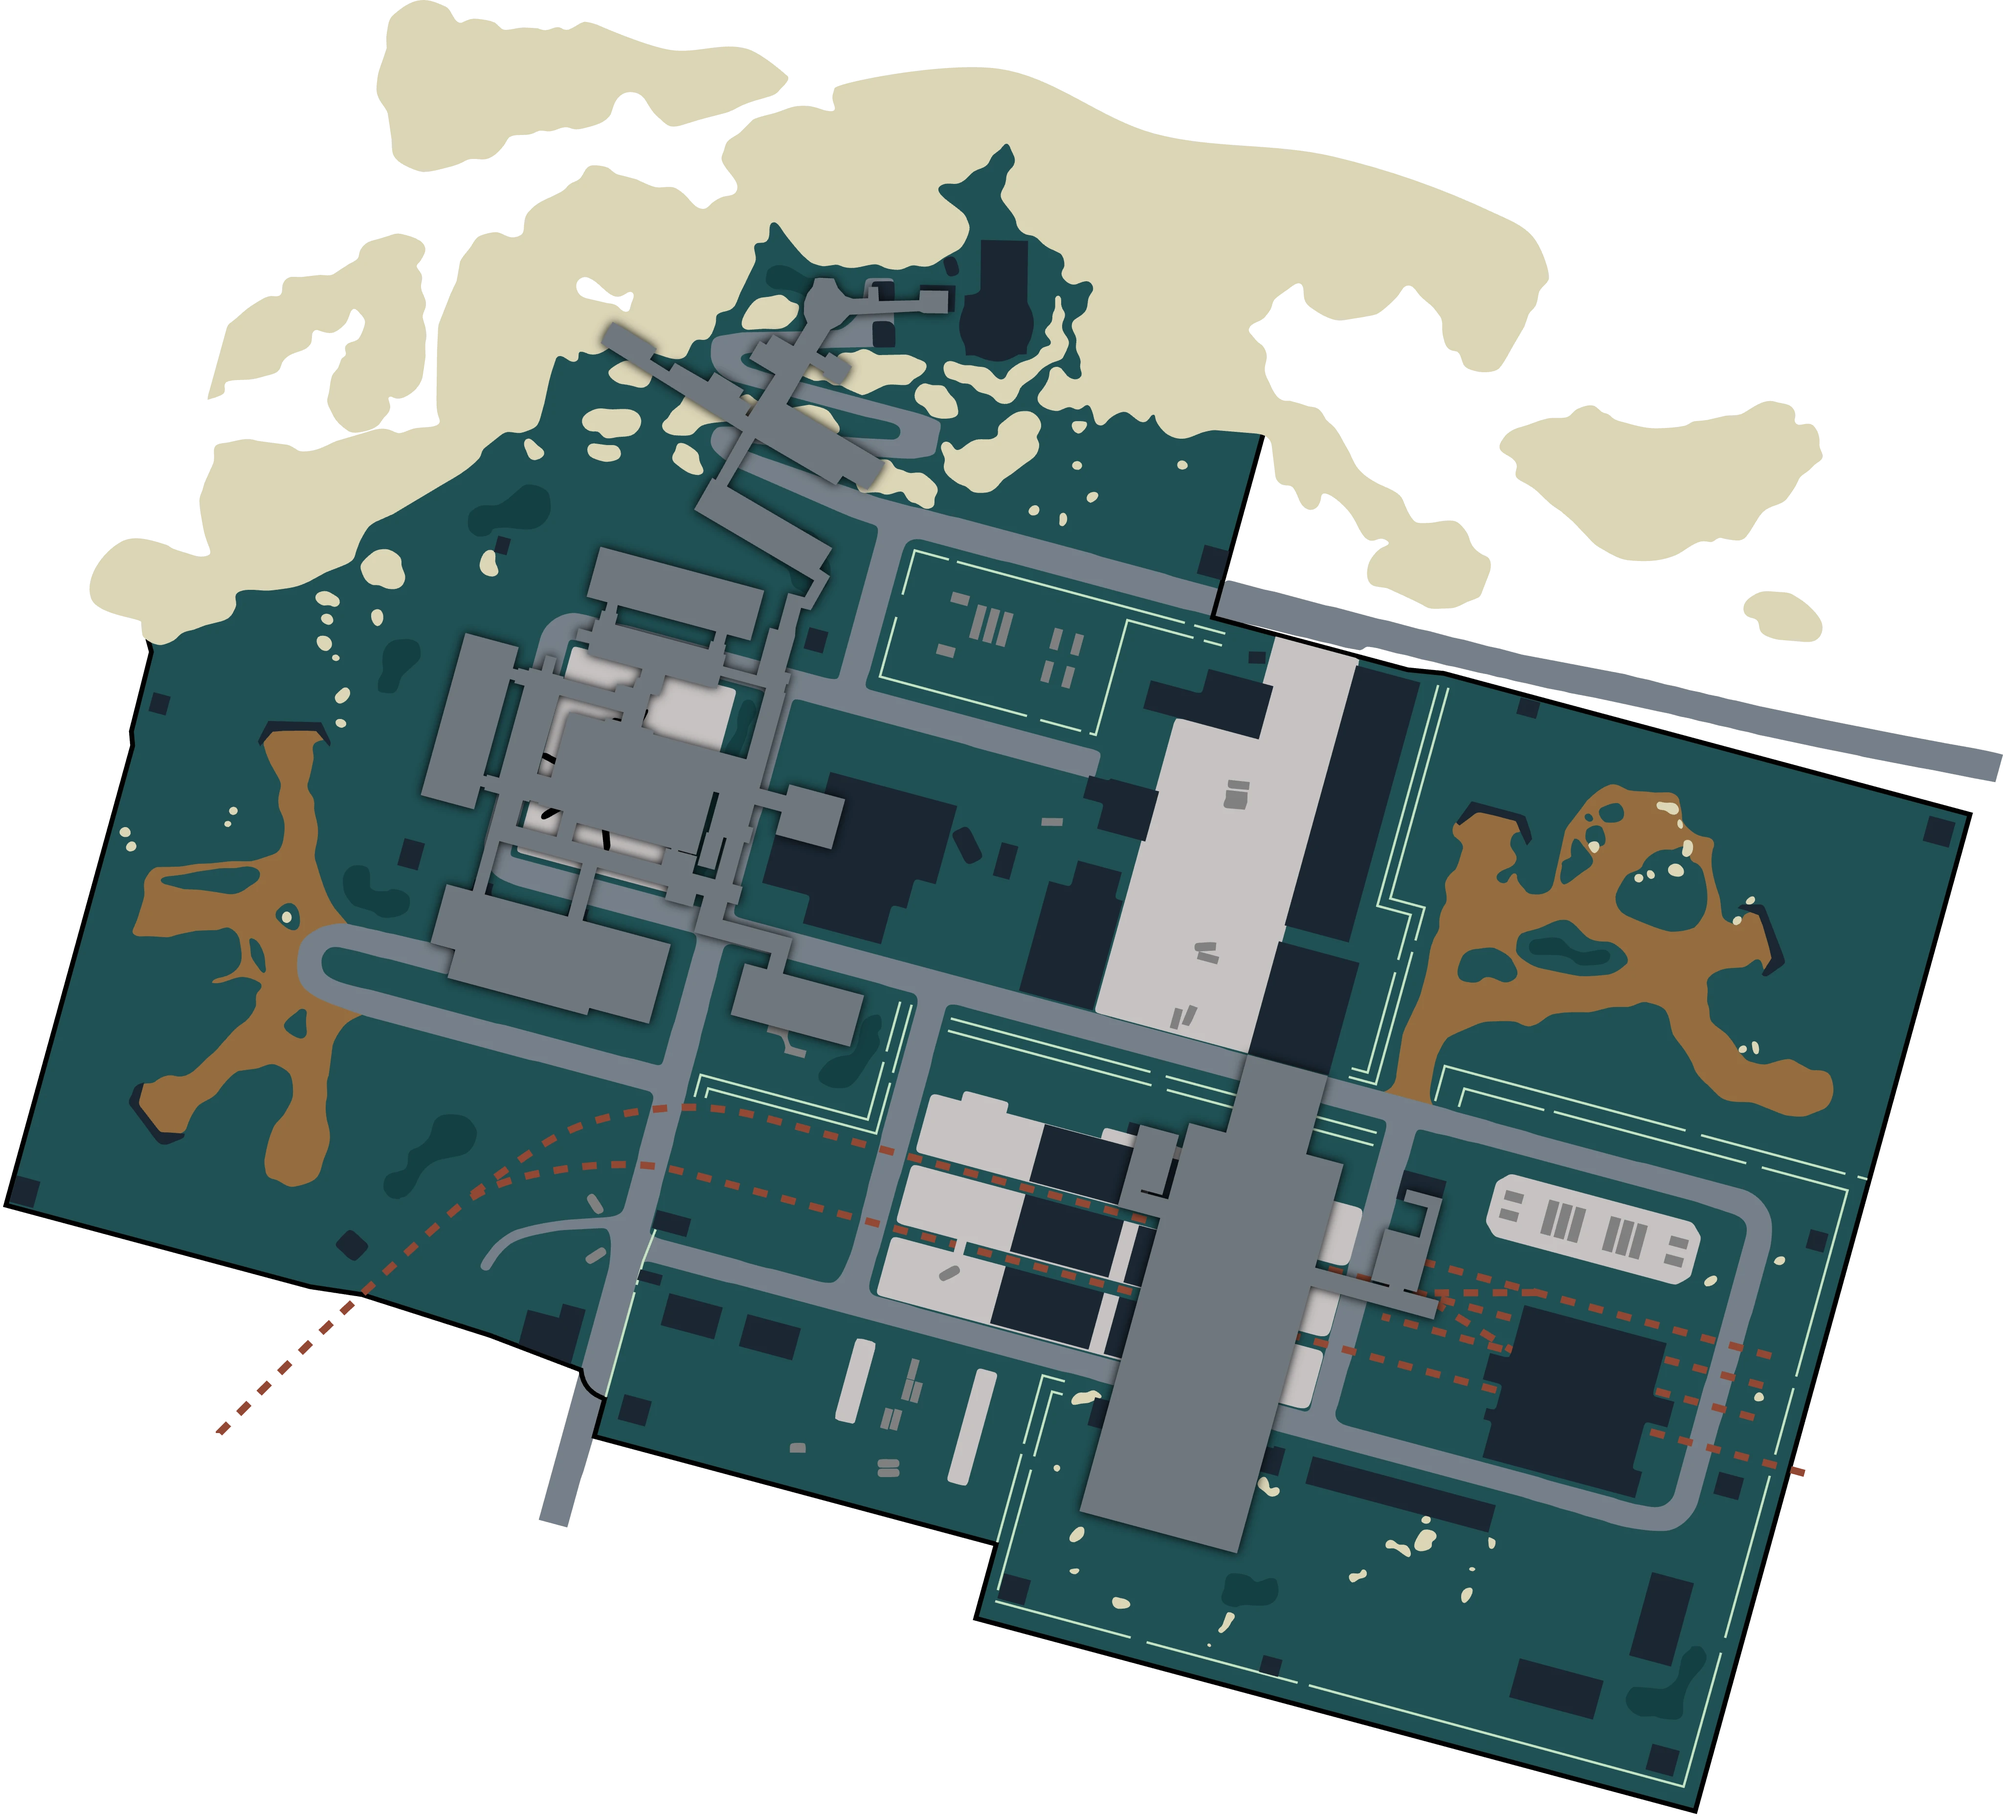
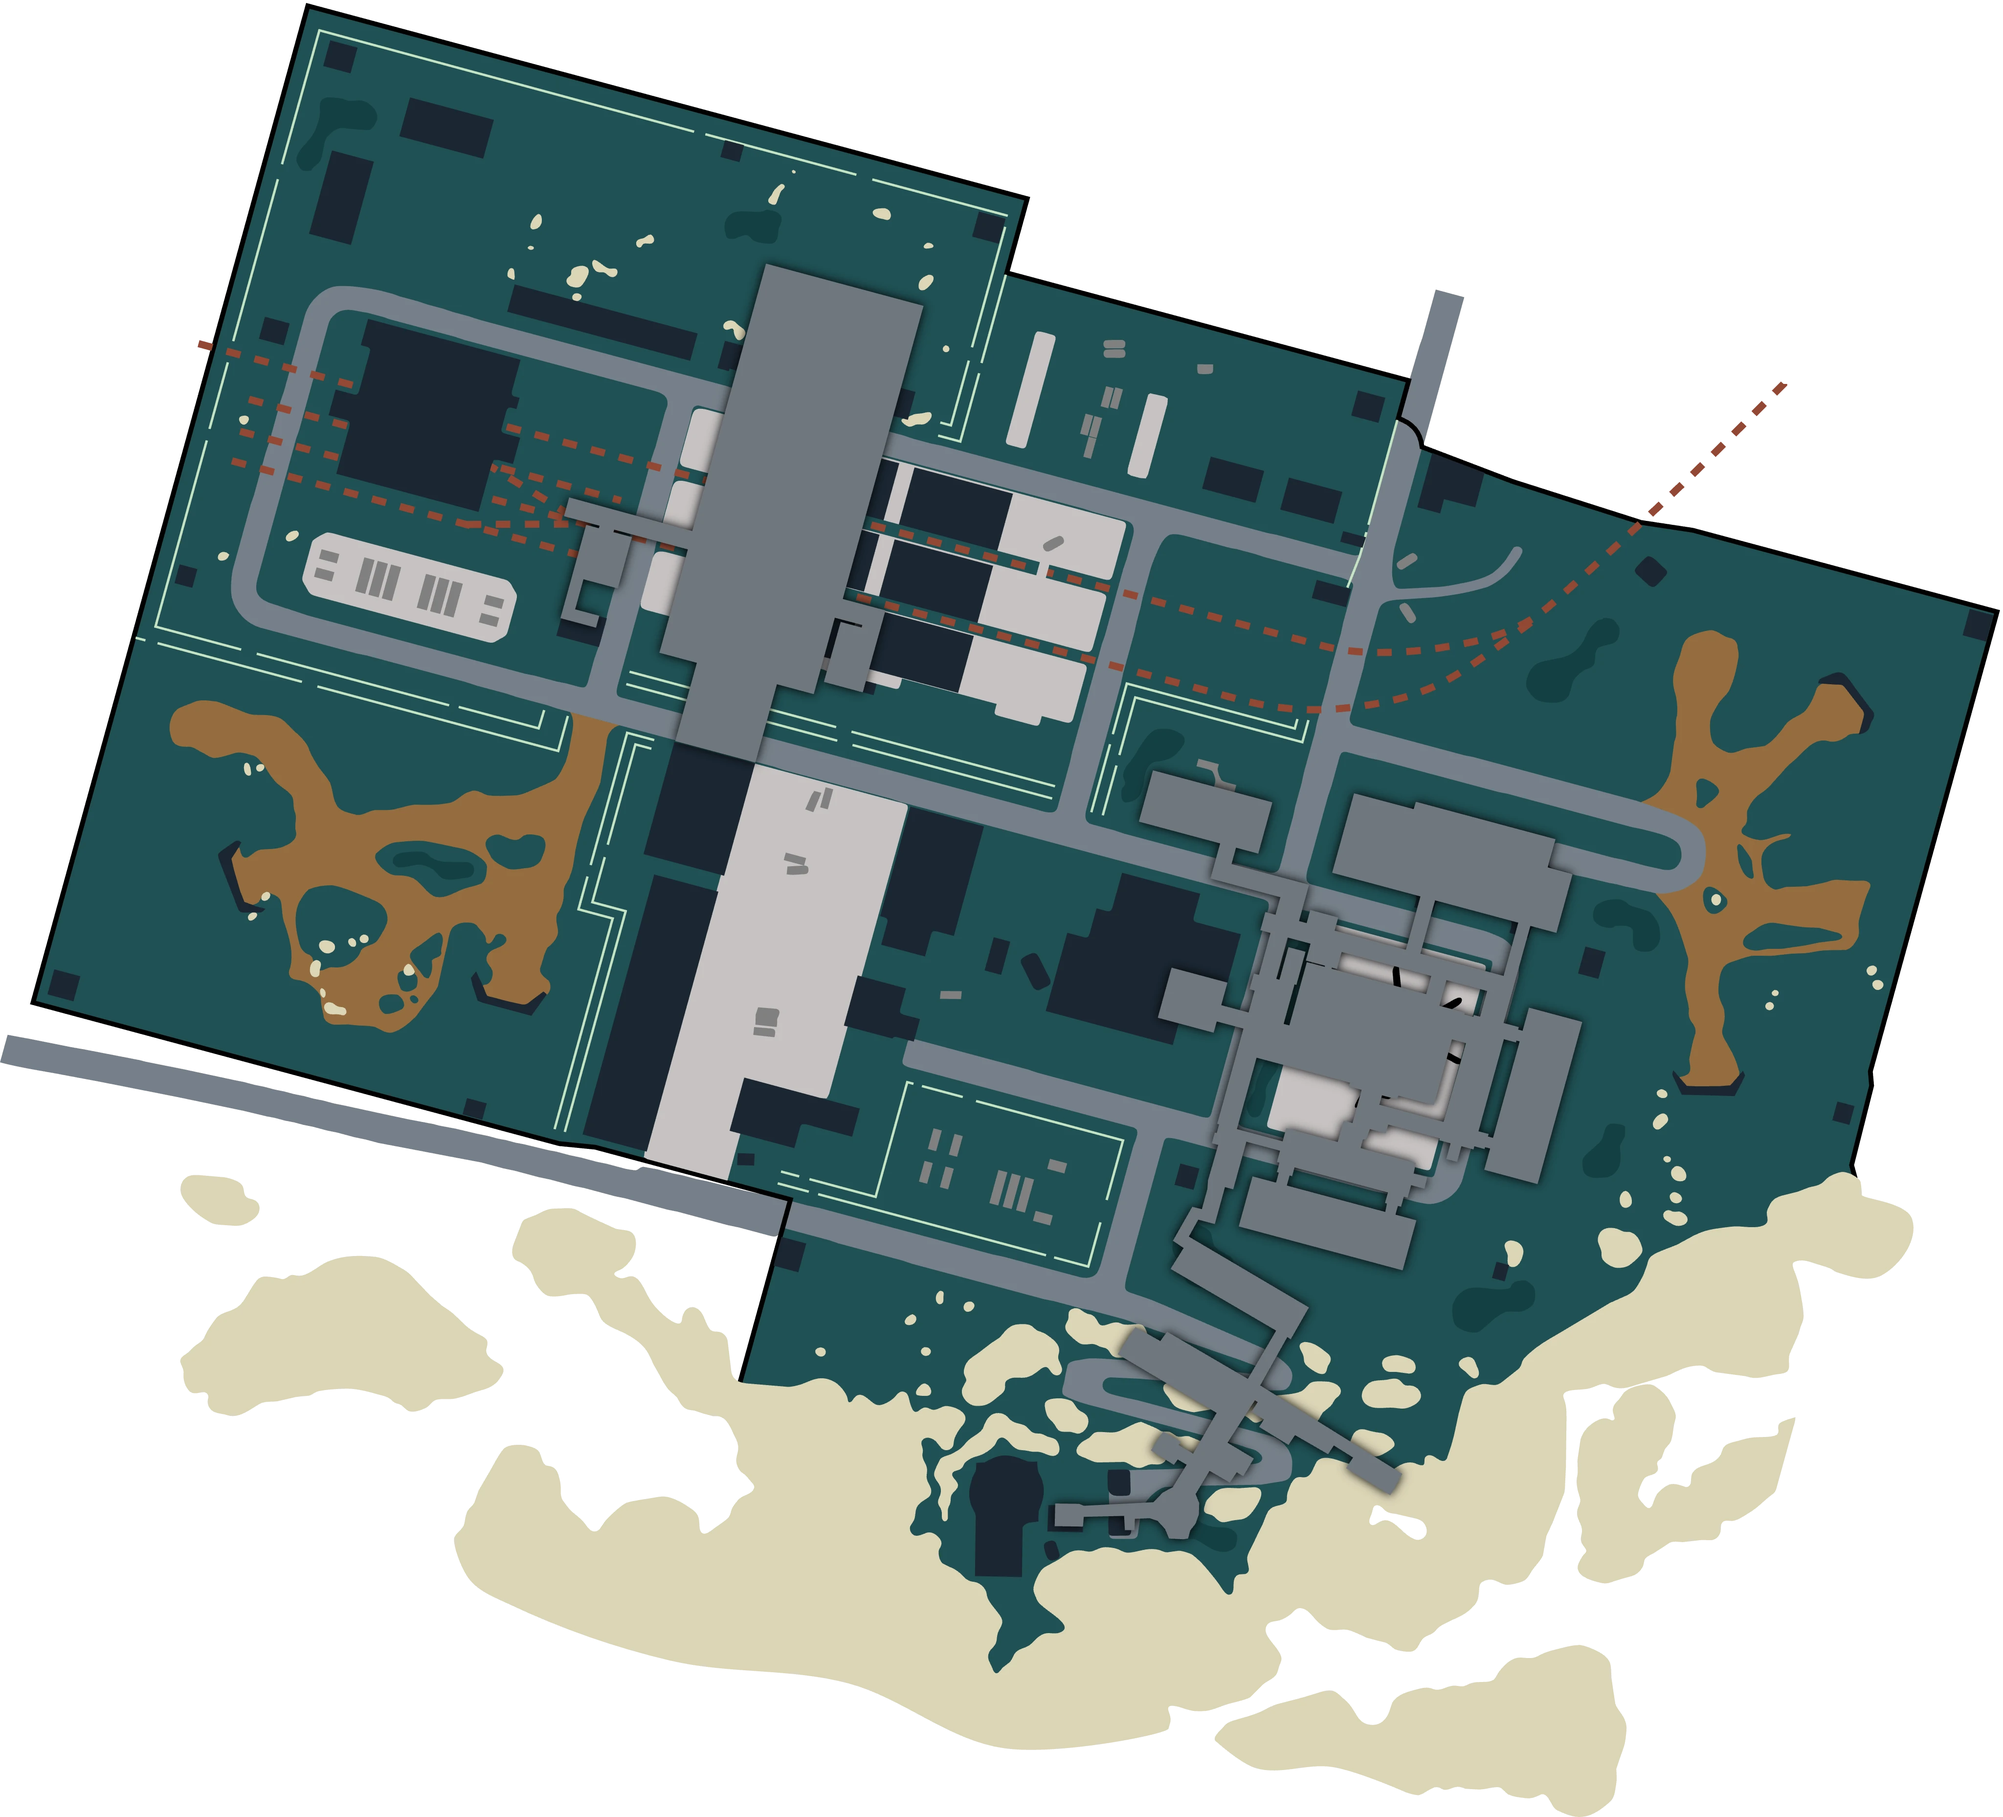
release: 0.0.2（地图转正北朝上 + 新图标 + 隐藏菜单栏）
- 地图素材统一再转 180°：消除南北颠倒，现在所有图都是北朝上
- 预置标定与测试同步翻转朝向
- 隐藏 Windows/Linux 的默认菜单栏；macOS 保留系统菜单（快捷键依赖它）
- 新增自绘矢量图标与 tools/build-icon.mjs（生成 PNG/ICO/运行时副本）
- 版本号 0.0.2，新增 docs/CHANGELOG.md

diff --git a/apps/desktop/src/renderer/src/maps.generated.ts b/apps/desktop/src/renderer/src/maps.generated.ts
@@ -17,7 +17,7 @@ export const GENERATED_MAPS: readonly GeneratedMap[] = [
     name: "海关",
     width: 4096,
     height: 2082,
-    rotation: 180,
+    rotation: 0,
     bounds: { minX: -372, maxX: 698, minZ: -307, maxZ: 237 },
     attribution: { author: "Shebuka", authorLink: "https://github.com/the-hideout/tarkov-dev-svg-maps/", svgPath: "https://assets.tarkov.dev/maps/svg/Customs.svg" },
   },
@@ -26,7 +26,7 @@ export const GENERATED_MAPS: readonly GeneratedMap[] = [
     name: "工厂",
     width: 4096,
     height: 3791,
-    rotation: 90,
+    rotation: 270,
     bounds: { minX: -65.5, maxX: 77, minZ: -64.5, maxZ: 67.4 },
     attribution: { author: "Shebuka", authorLink: "https://github.com/the-hideout/tarkov-dev-svg-maps/", svgPath: "https://assets.tarkov.dev/maps/svg/Factory.svg" },
   },
@@ -35,7 +35,7 @@ export const GENERATED_MAPS: readonly GeneratedMap[] = [
     name: "零号地",
     width: 2921,
     height: 4096,
-    rotation: 180,
+    rotation: 0,
     bounds: { minX: -99, maxX: 249, minZ: -124, maxZ: 364 },
     attribution: { author: "Shebuka", authorLink: "https://github.com/the-hideout/tarkov-dev-svg-maps/", svgPath: "https://assets.tarkov.dev/maps/svg/GroundZero.svg" },
   },
@@ -44,7 +44,7 @@ export const GENERATED_MAPS: readonly GeneratedMap[] = [
     name: "立交桥",
     width: 4096,
     height: 3448,
-    rotation: 180,
+    rotation: 0,
     bounds: { minX: -433, maxX: 598, minZ: -442, maxZ: 426 },
     attribution: { author: "Shebuka", authorLink: "https://github.com/the-hideout/tarkov-dev-svg-maps/", svgPath: "https://assets.tarkov.dev/maps/svg/Interchange.svg" },
   },
@@ -53,7 +53,7 @@ export const GENERATED_MAPS: readonly GeneratedMap[] = [
     name: "灯塔",
     width: 2520,
     height: 4096,
-    rotation: 180,
+    rotation: 0,
     bounds: { minX: -545, maxX: 515, minZ: -998, maxZ: 725 },
     attribution: { author: "Shebuka", authorLink: "https://github.com/the-hideout/tarkov-dev-svg-maps/", svgPath: "https://assets.tarkov.dev/maps/svg/Lighthouse.svg" },
   },
@@ -62,7 +62,7 @@ export const GENERATED_MAPS: readonly GeneratedMap[] = [
     name: "储备站",
     width: 4096,
     height: 3715,
-    rotation: 180,
+    rotation: 0,
     bounds: { minX: -303, maxX: 289, minZ: -293, maxZ: 244 },
     attribution: { author: "Shebuka", authorLink: "https://github.com/the-hideout/tarkov-dev-svg-maps/", svgPath: "https://assets.tarkov.dev/maps/svg/Reserve.svg" },
   },
@@ -71,7 +71,7 @@ export const GENERATED_MAPS: readonly GeneratedMap[] = [
     name: "海岸线",
     width: 4096,
     height: 2712,
-    rotation: 180,
+    rotation: 0,
     bounds: { minX: -1056, maxX: 504, minZ: -415, maxZ: 618 },
     attribution: { author: "Shebuka", authorLink: "https://github.com/the-hideout/tarkov-dev-svg-maps/", svgPath: "https://assets.tarkov.dev/maps/svg/Shoreline.svg" },
   },
@@ -80,7 +80,7 @@ export const GENERATED_MAPS: readonly GeneratedMap[] = [
     name: "塔科夫街区",
     width: 2987,
     height: 4096,
-    rotation: 180,
+    rotation: 0,
     bounds: { minX: -280, maxX: 323, minZ: -295, maxZ: 532 },
     attribution: { author: "Shebuka", authorLink: "https://github.com/the-hideout/tarkov-dev-svg-maps/", svgPath: "https://assets.tarkov.dev/maps/svg/StreetsOfTarkov.svg" },
   },
@@ -89,7 +89,7 @@ export const GENERATED_MAPS: readonly GeneratedMap[] = [
     name: "终点站",
     width: 3479,
     height: 4096,
-    rotation: 180,
+    rotation: 0,
     bounds: { minX: -433, maxX: 463, minZ: -580, maxZ: 475 },
     attribution: { author: "Shebuka", authorLink: "https://github.com/the-hideout/tarkov-dev-svg-maps/", svgPath: "https://assets.tarkov.dev/maps/svg/Terminal.svg" },
   },
@@ -98,7 +98,7 @@ export const GENERATED_MAPS: readonly GeneratedMap[] = [
     name: "森林",
     width: 4096,
     height: 3948,
-    rotation: 180,
+    rotation: 0,
     bounds: { minX: -761, maxX: 646, minZ: -914, maxZ: 442 },
     attribution: { author: "Shebuka", authorLink: "https://github.com/the-hideout/tarkov-dev-svg-maps/", svgPath: "https://assets.tarkov.dev/maps/svg/Woods.svg" },
   },

diff --git a/apps/desktop/tests/calibration.test.ts b/apps/desktop/tests/calibration.test.ts
@@ -189,10 +189,11 @@ describe("presetCalibration", () => {
   it("把世界包围盒的四角对应到图片四角", () => {
     expect(preset.controlPoints).toHaveLength(4);
     expect(preset.controlPoints[0]?.world).toEqual({ x: -372, z: -307 });
-    expect(preset.controlPoints[0]?.image).toEqual({ px: 0, py: 0 });
-    expect(preset.controlPoints[1]?.image).toEqual({ px: 4096, py: 0 });
-    expect(preset.controlPoints[2]?.image).toEqual({ px: 4096, py: 2082 });
-    expect(preset.controlPoints[3]?.image).toEqual({ px: 0, py: 2082 });
+    // 素材已旋正为北朝上：世界坐标 Z 越小越靠上，所以四个角是上下翻转的关系
+    expect(preset.controlPoints[0]?.image).toEqual({ px: 4096, py: 2082 });
+    expect(preset.controlPoints[1]?.image).toEqual({ px: 0, py: 2082 });
+    expect(preset.controlPoints[2]?.image).toEqual({ px: 0, py: 0 });
+    expect(preset.controlPoints[3]?.image).toEqual({ px: 4096, py: 0 });
   });
 
   it("可以直接解出接近零误差的单应矩阵", () => {
@@ -223,8 +224,8 @@ describe("rotateCalibration180", () => {
   it("图片坐标绕中心旋转，世界坐标保持不变", () => {
     const flipped = rotateCalibration180(preset);
 
-    expect(flipped.controlPoints[0]?.image).toEqual({ px: 4096, py: 2082 });
-    expect(flipped.controlPoints[2]?.image).toEqual({ px: 0, py: 0 });
+    expect(flipped.controlPoints[0]?.image).toEqual({ px: 0, py: 0 });
+    expect(flipped.controlPoints[2]?.image).toEqual({ px: 4096, py: 2082 });
     expect(flipped.controlPoints[0]?.world).toEqual({ x: -372, z: -307 });
   });
 

diff --git a/apps/desktop/src/main/index.ts b/apps/desktop/src/main/index.ts
@@ -1,6 +1,6 @@
 import { join } from "node:path";
 
-import { BrowserWindow, app, dialog, ipcMain, shell } from "electron";
+import { BrowserWindow, Menu, app, dialog, ipcMain, shell } from "electron";
 
 import type { Calibration } from "@tarkov-map-share/shared";
 
@@ -45,6 +45,8 @@ async function createWindow(): Promise<void> {
     show: false,
     backgroundColor: "#0d0f13",
     title: "塔科夫地图共享",
+    // 运行时窗口/任务栏图标（exe 自身的图标由打包工具处理）
+    icon: join(__dirname, "../renderer/icon.png"),
     webPreferences: {
       preload: join(__dirname, "../preload/index.js"),
       // 安全基线：渲染进程拿不到 Node，只能通过白名单 IPC 通信
@@ -152,6 +154,11 @@ function registerIpcHandlers(): void {
 }
 
 void app.whenReady().then(async () => {
+  // 隐藏 Windows/Linux 上的默认菜单栏（File/Edit/View…）：
+  // 这是应用而不是浏览器，菜单只会让人分心。
+  // macOS 的菜单在系统顶栏、同时也是快捷键（Cmd+C 等）的来源，所以保留。
+  if (process.platform !== "darwin") Menu.setApplicationMenu(null);
+
   registerIpcHandlers();
   await createWindow();
   await watcher.scan();

diff --git a/apps/desktop/src/renderer/src/calibration.ts b/apps/desktop/src/renderer/src/calibration.ts
@@ -210,10 +210,11 @@ export function presetCalibration(input: {
     image: input.image,
     rotation: 0,
     controlPoints: [
-      { world: { x: minX, z: minZ }, image: { px: 0, py: 0 }, label: "角 1" },
-      { world: { x: maxX, z: minZ }, image: { px: width, py: 0 }, label: "角 2" },
-      { world: { x: maxX, z: maxZ }, image: { px: width, py: height }, label: "角 3" },
-      { world: { x: minX, z: maxZ }, image: { px: 0, py: height }, label: "角 4" },
+      // 地图素材已统一旋正为"北朝上"，因此世界坐标 Z 越小越靠上
+      { world: { x: minX, z: minZ }, image: { px: width, py: height }, label: "角 1" },
+      { world: { x: maxX, z: minZ }, image: { px: 0, py: height }, label: "角 2" },
+      { world: { x: maxX, z: maxZ }, image: { px: 0, py: 0 }, label: "角 3" },
+      { world: { x: minX, z: maxZ }, image: { px: width, py: 0 }, label: "角 4" },
     ],
     source: input.source,
   };

diff --git a/apps/desktop/README.md b/apps/desktop/README.md
@@ -47,9 +47,13 @@ npm run test:e2e --workspace @tarkov-map-share/desktop   # 端到端（需先 bu
 
 打包产物在 `apps/desktop/release/`：
 
-* `tarkov-map-share Setup 0.0.0.exe` —— Windows 安装包，发给朋友装这个
-* `tarkov-map-share-0.0.0-win.zip` —— 免安装版，解压后直接跑 exe
+* `tarkov-map-share Setup <版本>.exe` —— Windows 安装包，发给朋友装这个
+* `tarkov-map-share-<版本>-win.zip` —— 免安装版，解压后直接跑 exe
 * macOS 产物只有 zip（未签名，本机自用没问题）
+
+应用图标在 `build/icon.svg`，用 `node tools/build-icon.mjs` 重新生成
+`build/icon.png`（1024，macOS 与通用）与 `build/icon.ico`（6 个尺寸，Windows）
+以及运行时用的 `src/renderer/public/icon.png`。
 
 打包前的注意事项：
 

diff --git a/docs/CHANGELOG.md b/docs/CHANGELOG.md
@@ -1,0 +1,16 @@
+# 变更记录
+
+## 0.0.2
+
+- **地图朝向修正**：所有地图统一转为北朝上（此前渲染出来是南北颠倒的）
+- 隐藏 Windows/Linux 上的默认菜单栏（File/Edit/View…），界面更干净
+- 应用图标：新增自绘的矢量图标（深色圆角 + 定位针 + 坐标准星），
+  由 `tools/build-icon.mjs` 生成 `build/icon.png` 与 `build/icon.ico`
+- 首次打包分发：Windows 安装包 + 免安装 zip，macOS zip
+
+## 0.0.1（未单独发版，含在首次打包里）
+
+- Phase 4：房间实时同步（房主模式、队友坐标板、断线重连）
+- 标定支持 2 点相似变换 / 3 点仿射 / 4 点以上单应、单点平移校正、翻转 180°
+- 标定包导出/导入，支持随应用分发默认标定
+- 10 张地图素材与元数据

diff --git a/README.md b/README.md
@@ -19,6 +19,11 @@
 | 10 张地图素材（来自 tarkov.dev 开源矢量图，CC BY-NC-SA 4.0） | 已完成 |
 | 房间实时同步（创建/加入/广播/重连/坐标板） | 已完成 |
 | 玩家位置与标记实时同步 | 已完成 |
+
+## 版本
+
+当前版本 **0.0.2**，变更见 [docs/CHANGELOG.md](docs/CHANGELOG.md)。
+打包产物在 `apps/desktop/release/`（Windows 安装包 / 免安装 zip / macOS zip）。
 | 地图标记（点位、文字、图标） | 计划中 |
 | 路线绘制与共享 | 计划中 |
 | 多地图切换与坐标校准 | 计划中 |
